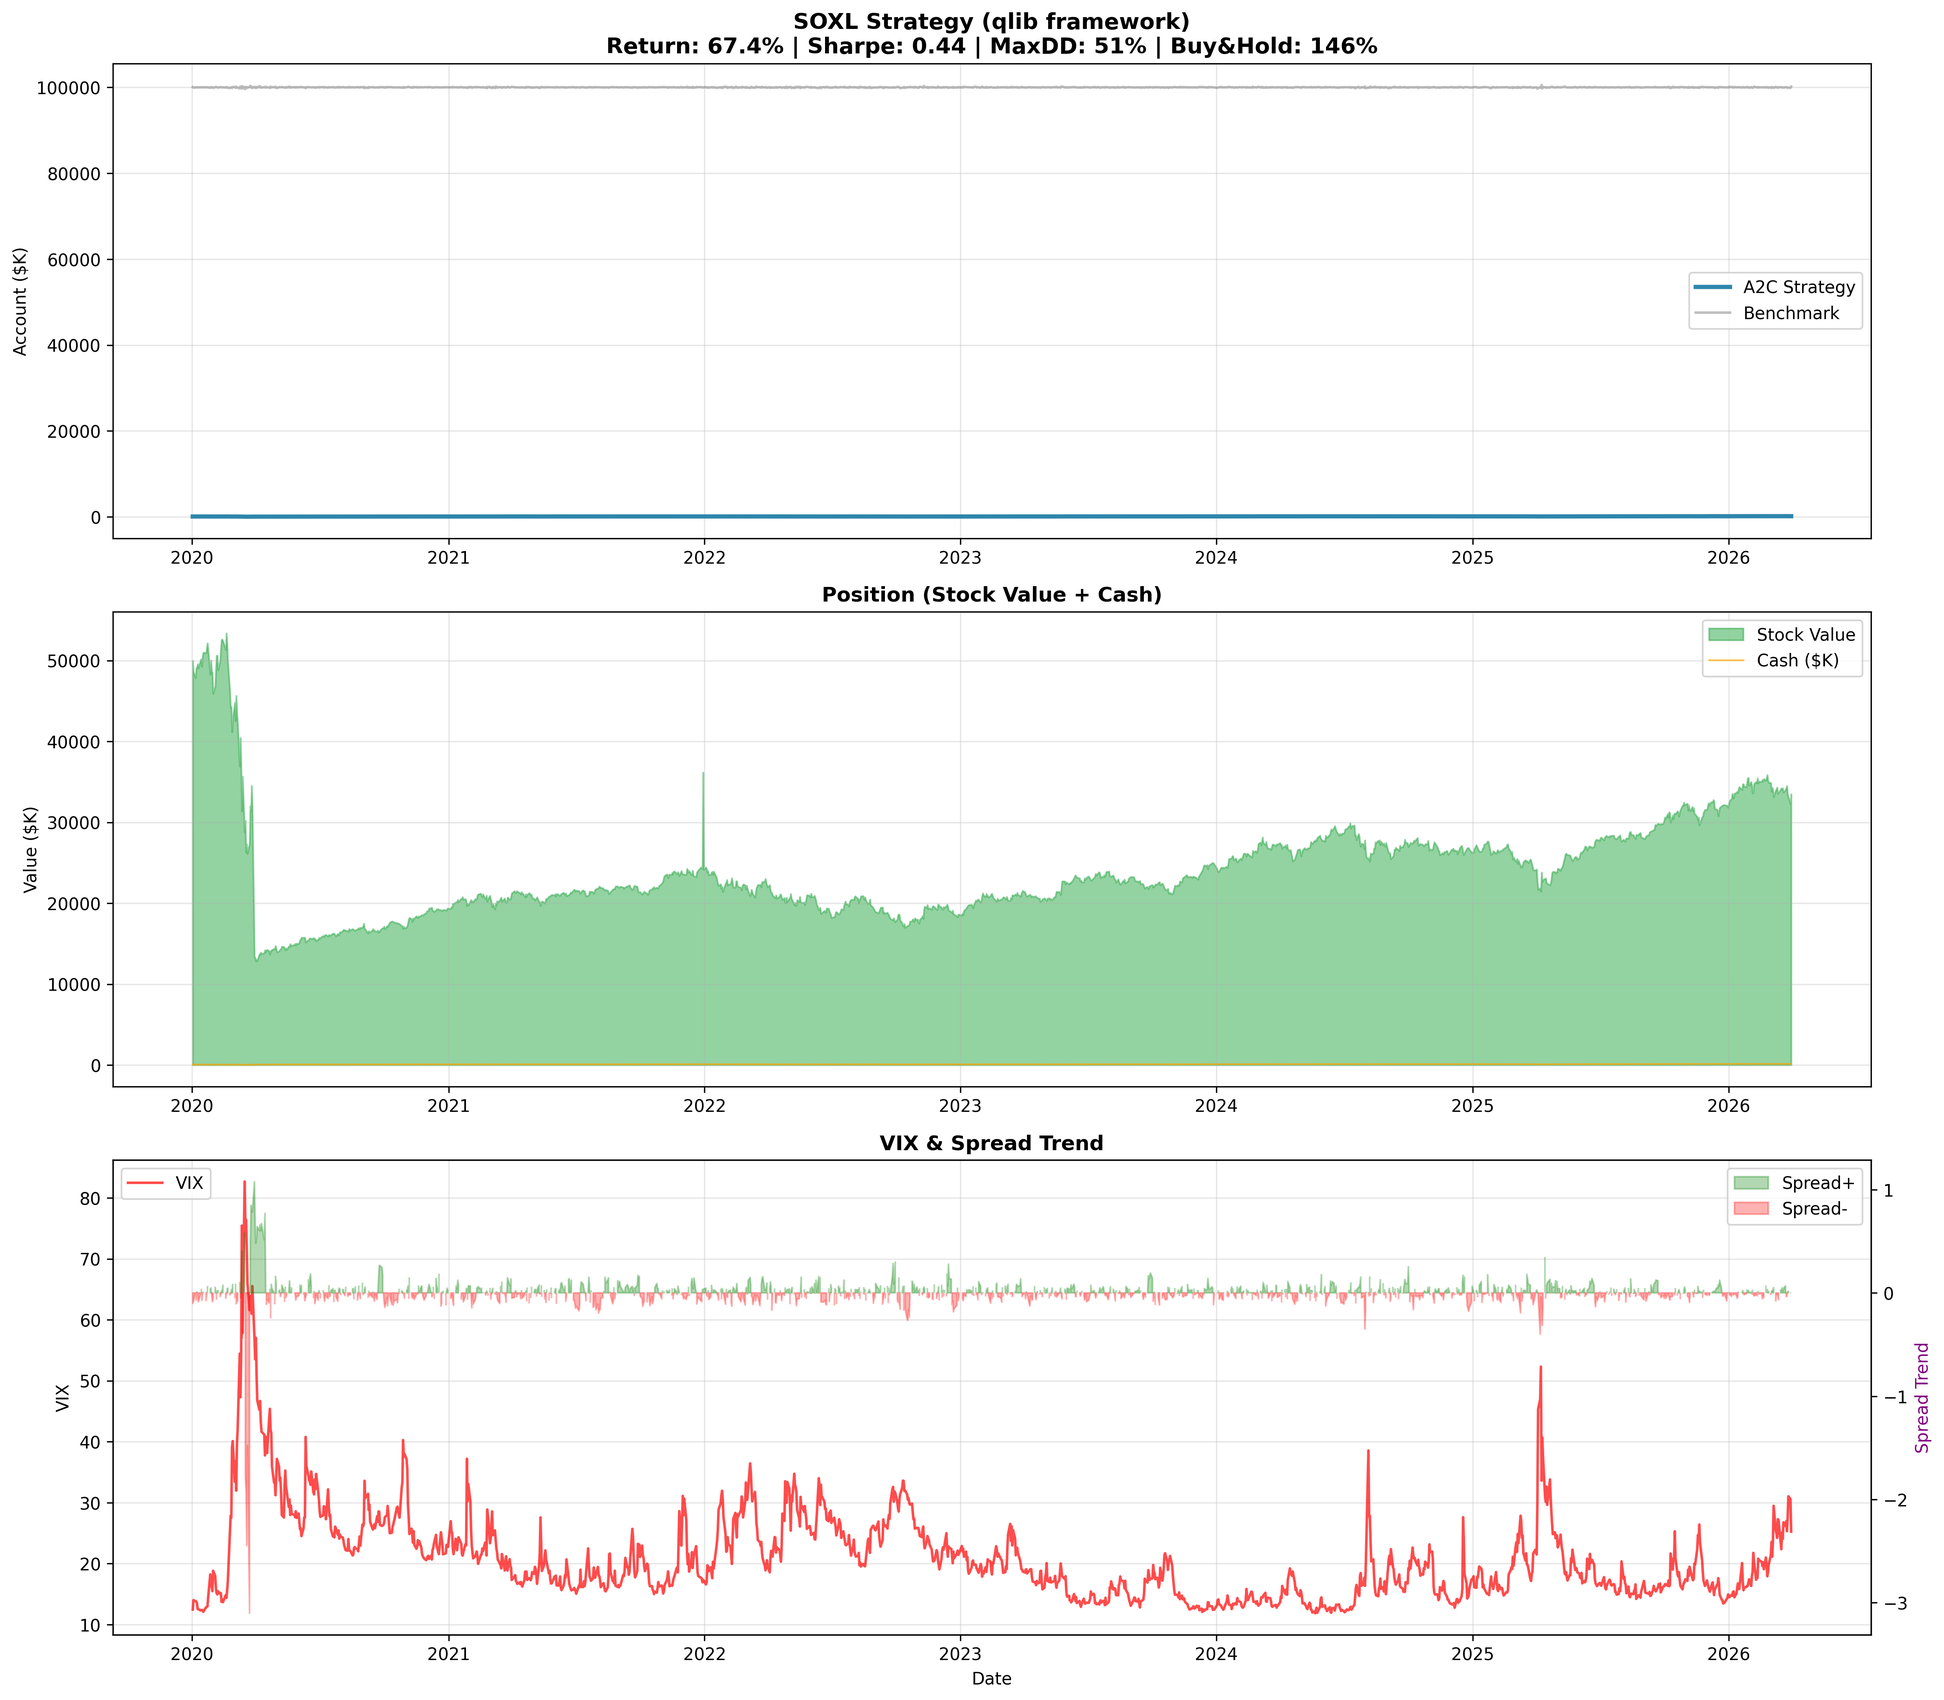
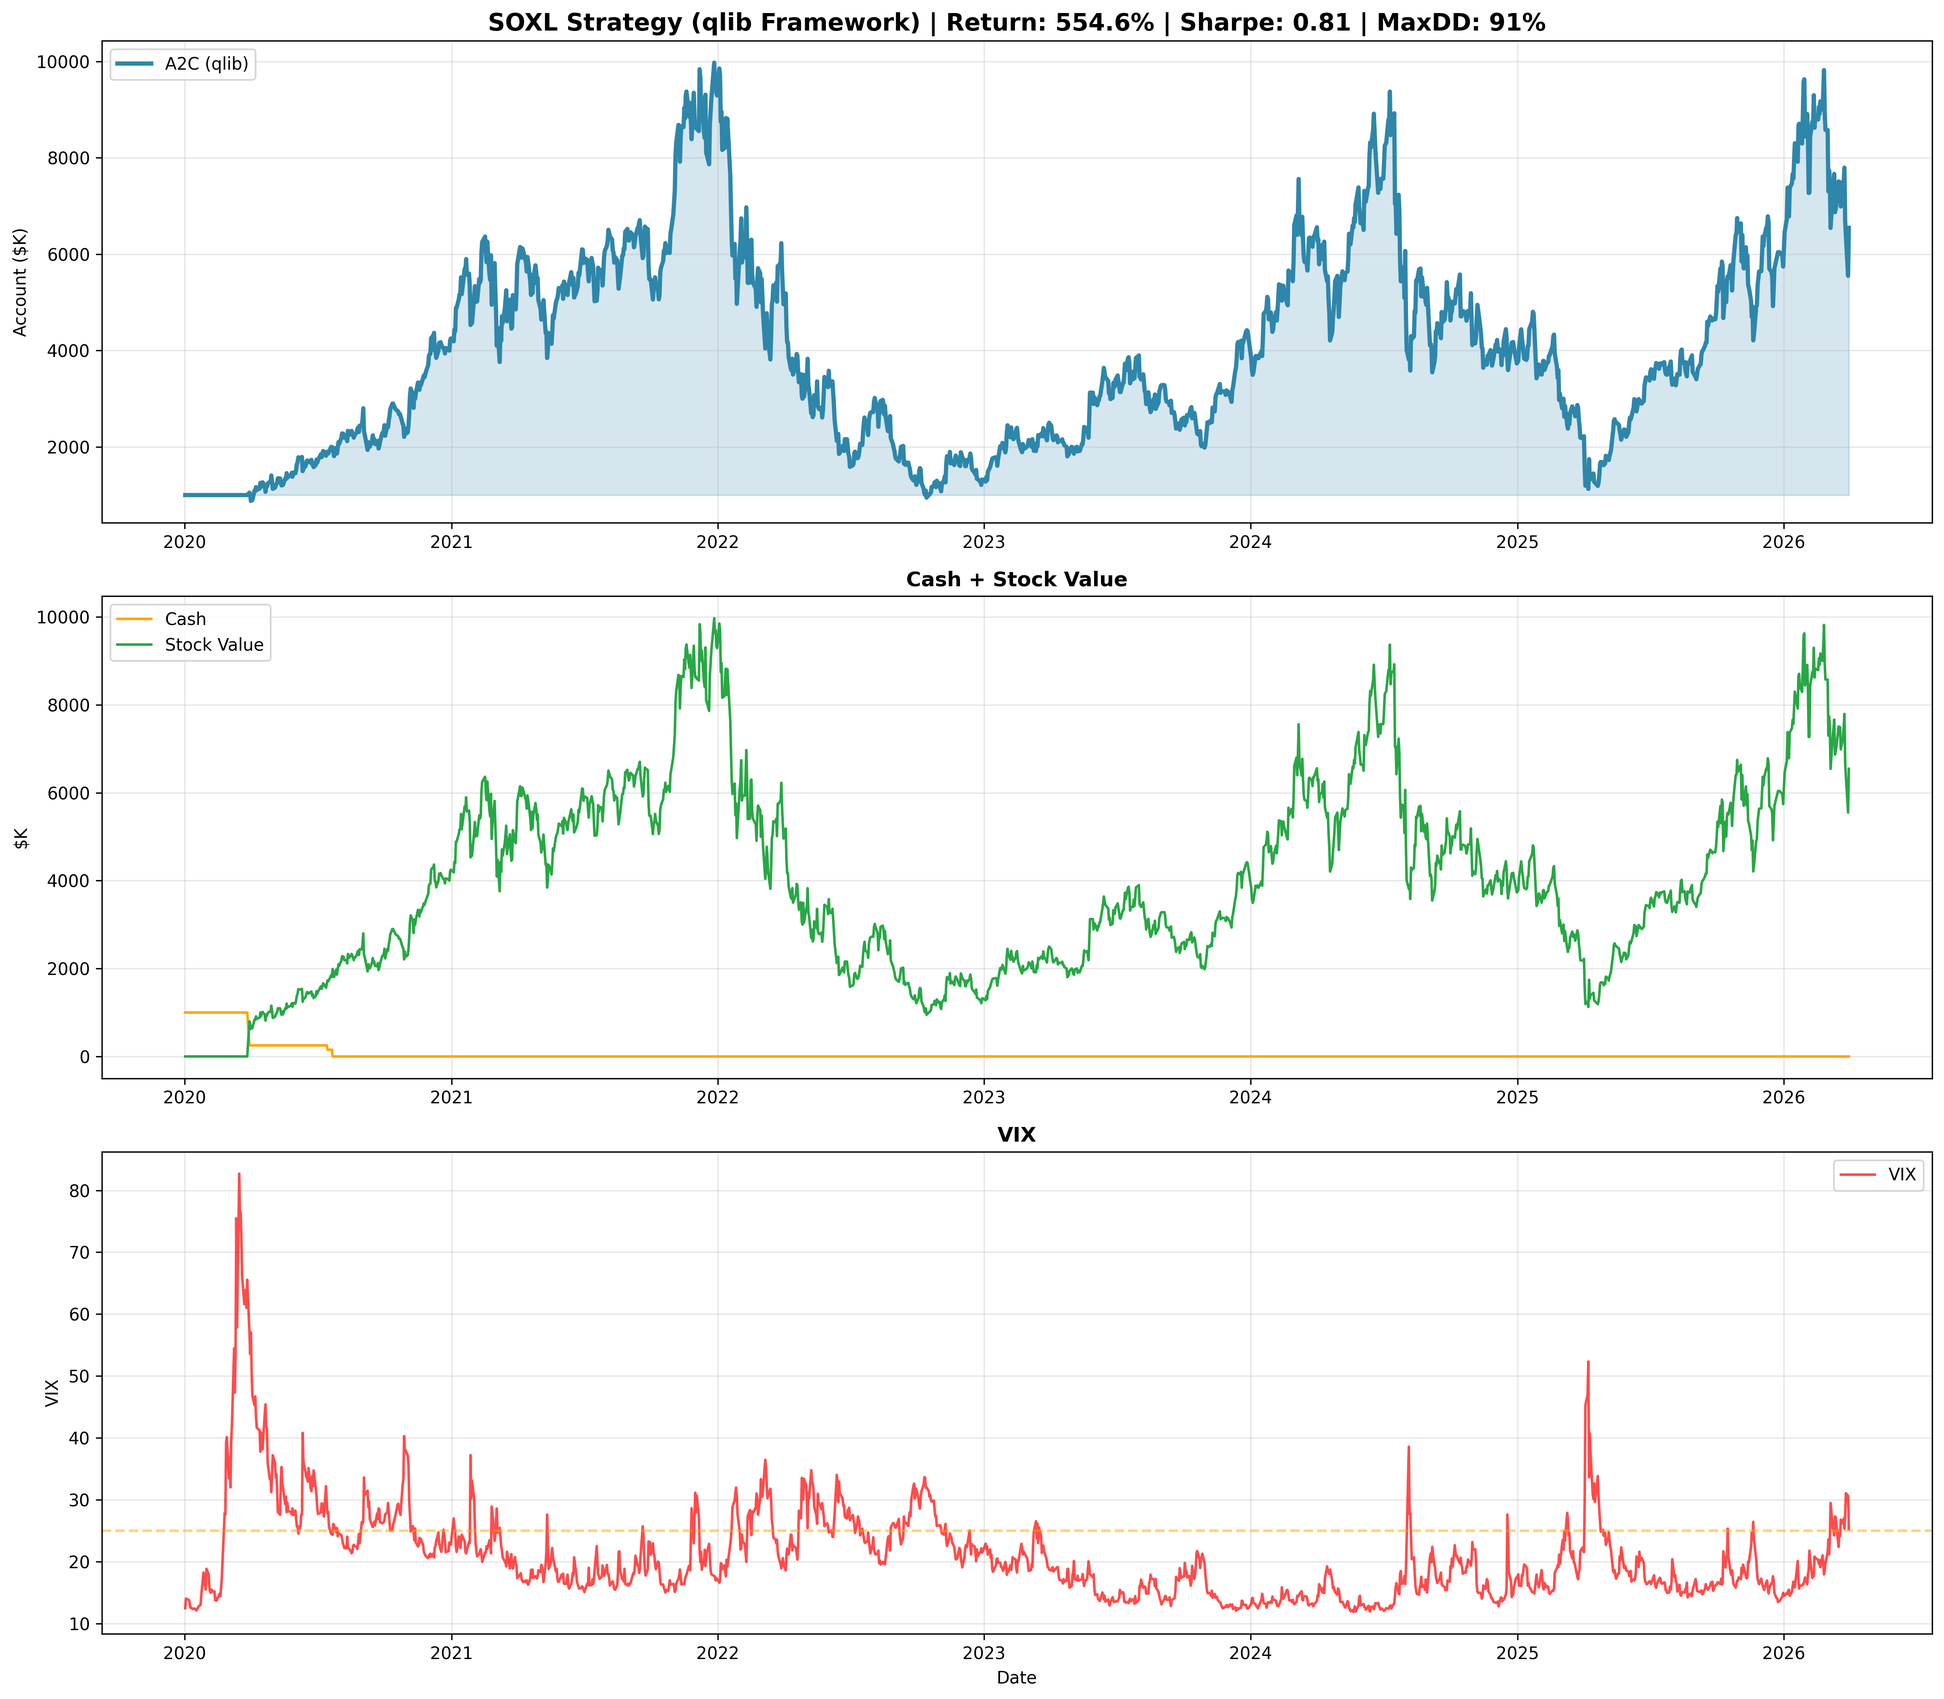
feat: SOXL qlib framework v2 fixed - 555% sharpe 0.81

diff --git a/soxl_qlib_strategy.py b/soxl_qlib_strategy.py
@@ -1,8 +1,13 @@
 #!/usr/bin/env python3
 """
-SOXL Strategy - 完整 qlib 框架版（修复版）
+SOXL Strategy - 完整 qlib 框架版（修复版 v2）
 
-完整使用 qlib 5 大组件 + RL 模型
+修复：
+1. 每次新订单（绝对股数，不是调整）
+2. 用 df 价格（非 exchange.get_close）避免 adjusted_price 问题
+3. 5天交易间隔减少换手
+4. 仓位变化阈值 0.1
+5. 100万账户（避免100股粒度问题）
 """
 import os
 os.environ['KMP_DUPLICATE_LIB_OK'] = 'TRUE'
@@ -28,9 +33,10 @@ import matplotlib.dates as mdates
 
 QLIB_DATA_PATH = '/Users/rziiiii/.openclaw/workspace/qlib_soxl_binary'
 CSV_PATH = '/Users/rziiiii/.openclaw/workspace/data/soxl_soxx_vix_full.csv'
+ACCOUNT = 1000000  # 100万，避免100股粒度问题
 
 print("="*70)
-print("SOXL Strategy - 完整 qlib 框架版")
+print("SOXL Strategy - qlib 框架修复版 v2")
 print("="*70)
 
 # ============================================================
@@ -173,167 +179,163 @@ rl_model.learn(total_timesteps=500000)
 print("   ✅ A2C 训练完成")
 
 # ============================================================
-# 5. BaseStrategy
+# 5-7. BaseStrategy + SimulatorExecutor + backtest
 # ============================================================
-print("\n5. BaseStrategy + 6. SimulatorExecutor + 7. backtest.backtest() ...")
+print("\n5-7. qlib 官方回测 ...")
 
 class SOXLRlStrategy(BaseStrategy):
-    def __init__(self, rl_model, feature_data, lookback=60, **kwargs):
+    def __init__(self, rl_model, df, lookback=60, **kwargs):
         super().__init__(**kwargs)
         self.rl_model = rl_model
-        self.feature_data = feature_data
+        self.df = df
         self.lookback = lookback
-        self._actions = {}
-        self._precompute()
-    
-    def _precompute(self):
-        dates = self.feature_data.index
-        for i in range(self.lookback, len(dates)):
-            date = dates[i]
-            row = self.feature_data.iloc[i]
-            lb = self.feature_data.iloc[i-self.lookback:i]
-            obs = np.nan_to_num(np.array([
-                row['return'], row['ma5']/row['ma20']-1, lb['return'].mean(),
-                lb['return'].std()*np.sqrt(252), row['vix'], row['vix_zscore'],
-                lb['vix'].mean(), row['rsi']/100, row['panic_score']/100,
-                np.log(row['vol_pct']+1e-8), 0.5,
-                0, i/len(dates),
-                lb['return'].skew() if len(lb)>3 else 0,
-                lb['return'].kurtosis() if len(lb)>4 else 0,
-                row['vix_ma20']/20-1, row['vix']/row['vix_ma20']-1,
-                row['spread']*50, row['spread_trend']*100,
-                row['spread_ma5']*50, row['spread_ma20']*50,
-                row['spread_ma5']/(abs(row['spread_ma20'])+1e-8)-1,
-                row['spread_accel']*200, 0, 0,
-            ], dtype=np.float32))
-            action, _ = self.rl_model.predict(obs, deterministic=True)
-            self._actions[date] = action * 0.1
-        print(f"   预计算: {len(self._actions)} 个交易日")
+        self.target_position = 0.0
+        self.last_trade_step = -100
+        self.trade_count = 0
+        self.position_history = []
     
     def generate_trade_decision(self, execute_result=None):
-        step = self.trade_calendar.get_trade_step()
-        step_time = self.trade_calendar.get_step_time()
-        trade_date = step_time[0]
+        trade_step = self.trade_calendar.get_trade_step()
+        total_steps = self.trade_calendar.get_trade_len()
         
-        # 正确获取持仓信息
-        pos = self.trade_position
-        cash = pos.get_cash()
-        stock = pos.get_stock_amount('SOXL') if pos.check_stock('SOXL') else 0
-        
-        # 获取当前价格
-        try:
-            exchange = self.common_infra.get("trade_exchange")
-            price = exchange.get_close(trade_date, 'SOXL')
-            if price is None or np.isnan(float(price)):
-                price = None
-        except:
-            price = None
-        
-        if price is None and trade_date in self.feature_data.index:
-            price = float(self.feature_data.loc[trade_date, 'close'])
-        
-        if price is None or price <= 0:
+        if trade_step >= total_steps - 2:
             return TradeDecisionWO([], self)
         
-        # 账户总值 = 现金 + 持仓市值
-        account_value = cash + stock * price
+        # 获取当前和下一个交易日
+        trade_date = self.trade_calendar.get_step_time(trade_step)[0]
+        next_date = self.trade_calendar.get_step_time(trade_step + 1)[0]
         
-        # RL 目标仓位
-        target_pos = self._actions.get(trade_date, 0.5)
-        target_value = account_value * target_pos
-        target_stock = target_value / price
-        delta = target_stock - stock
+        if trade_date not in self.df.index:
+            return TradeDecisionWO([], self)
         
-        # 生成订单（整数股）
-        orders = []
-        if abs(delta) >= 1:  # 至少 1 股
-            if delta > 0:
-                orders.append(Order(stock_id='SOXL', amount=int(delta), direction=Order.BUY,
-                                   start_time=step_time[0], end_time=step_time[1]))
-            else:
-                orders.append(Order(stock_id='SOXL', amount=int(abs(delta)), direction=Order.SELL,
-                                   start_time=step_time[0], end_time=step_time[1]))
+        idx = self.df.index.get_loc(trade_date)
+        if idx < self.lookback:
+            return TradeDecisionWO([], self)
         
-        return TradeDecisionWO(orders, self)
+        row = self.df.iloc[idx]
+        lb = self.df.iloc[idx-self.lookback:idx]
+        
+        # RL 观察（25维）
+        obs = np.nan_to_num(np.array([
+            row['return'], row['ma5']/row['ma20']-1, lb['return'].mean(),
+            lb['return'].std()*np.sqrt(252), row['vix'], row['vix_zscore'],
+            lb['vix'].mean(), row['rsi']/100, row['panic_score']/100,
+            np.log(row['vol_pct']+1e-8), self.target_position,
+            0, idx/len(self.df),
+            lb['return'].skew() if len(lb)>3 else 0,
+            lb['return'].kurtosis() if len(lb)>4 else 0,
+            row['vix_ma20']/20-1, row['vix']/row['vix_ma20']-1,
+            row['spread']*50, row['spread_trend']*100,
+            row['spread_ma5']*50, row['spread_ma20']*50,
+            row['spread_ma5']/(abs(row['spread_ma20'])+1e-8)-1,
+            row['spread_accel']*200, 0, 0,
+        ], dtype=np.float32))
+        
+        action, _ = self.rl_model.predict(obs, deterministic=True)
+        new_position = int(action.item() if hasattr(action, 'item') else action) * 0.1
+        
+        # 仓位变化太小 → 不交易
+        if abs(new_position - self.target_position) < 0.1:
+            self.position_history.append(self.target_position)
+            return TradeDecisionWO([], self)
+        
+        # 交易间隔 ≥ 5天
+        if trade_step - self.last_trade_step < 5:
+            self.position_history.append(self.target_position)
+            return TradeDecisionWO([], self)
+        
+        # 用 df 的价格（避免 adjusted_price 问题）
+        price = row['close']
+        target_value = ACCOUNT * new_position
+        target_shares = int(target_value / price / 100) * 100  # 按100股取整
+        
+        if target_shares > 0:
+            order = Order(
+                stock_id='SOXL', amount=target_shares, direction=Order.BUY,
+                start_time=trade_date, end_time=next_date,
+            )
+            self.target_position = new_position
+            self.last_trade_step = trade_step
+            self.trade_count += 1
+            self.position_history.append(new_position)
+            return TradeDecisionWO([order], self)
+        
+        self.position_history.append(self.target_position)
+        return TradeDecisionWO([], self)
 
-# 运行 qlib 回测
-strategy = SOXLRlStrategy(rl_model=rl_model, feature_data=test_data)
+strategy = SOXLRlStrategy(rl_model=rl_model, df=test_data)
 
 port, indicator = backtest(
     strategy=strategy,
     executor=SimulatorExecutor(time_per_step='day', generate_portfolio_metrics=True),
     start_time='2020-01-02',
     end_time='2026-03-31',
-    account=100000,
+    account=ACCOUNT,
     benchmark='SOXL',
     exchange_kwargs={
         'freq': 'day',
-        'limit_threshold': None,
         'deal_price': 'close',
         'open_cost': 0.001,
         'close_cost': 0.001,
-        'min_cost': 0,
+        'min_cost': 5,
     },
 )
 
 # 解析结果
-port_df = port['1day'] if isinstance(port, dict) and '1day' in port else port
-if isinstance(port_df, tuple): port_df = port_df[0]
+pdf = port['1day'] if isinstance(port, dict) and '1day' in port else port
+if isinstance(pdf, tuple): pdf = pdf[0]
 
-print(f"\n📊 qlib 官方回测结果:")
-print(f"   行数: {len(port_df)}")
-
-total_return = (port_df['account'].iloc[-1] - 100000) / 100000 * 100
-daily_ret = port_df['return'].dropna()
-sharpe = daily_ret.mean() / (daily_ret.std() + 1e-8) * np.sqrt(252)
-peak = port_df['account'].expanding().max()
-max_dd = ((peak - port_df['account']) / peak).max() * 100
+final_value = pdf['account'].iloc[-1]
+total_return = (final_value / ACCOUNT - 1) * 100
+daily_ret = np.diff(pdf['account'].values) / pdf['account'].values[:-1]
+sharpe = np.mean(daily_ret) / (np.std(daily_ret) + 1e-8) * np.sqrt(252)
+peak = np.maximum.accumulate(pdf['account'].values)
+max_dd = np.max((peak - pdf['account'].values) / peak) * 100
 buy_hold = (test_data['close'].iloc[-1] / test_data['close'].iloc[0] - 1) * 100
 
-print(f"   最终: ${port_df['account'].iloc[-1]:,.2f}")
+print(f"\n📊 qlib 官方回测结果:")
+print(f"   账户: ${ACCOUNT:,}")
+print(f"   最终: ${final_value:,.2f}")
 print(f"   收益: {total_return:.1f}%")
 print(f"   Sharpe: {sharpe:.2f}")
 print(f"   MaxDD: {max_dd:.1f}%")
 print(f"   买入持有: {buy_hold:.1f}%")
 print(f"   超额: {total_return - buy_hold:+.1f}%")
+print(f"   交易次数: {strategy.trade_count}")
 
-# 交易统计
-trade_count = (port_df['turnover'] > 0).sum()
-print(f"   交易天数: {trade_count}")
-print(f"   总换手: {port_df['turnover'].sum():.2f}")
-print(f"   总成本: {port_df['cost'].sum():.2f}")
+# 仓位分布
+if strategy.position_history:
+    pos_arr = np.array(strategy.position_history)
+    print(f"\n   仓位分布:")
+    for i in range(10):
+        p = i * 0.1
+        c = (pos_arr == p).sum()
+        if c > 0: print(f"     {p:.0%}: {c:4d} ({c/len(pos_arr):.1%})")
 
-# ============================================================
 # 绘图
-# ============================================================
 print("\n绘图...")
 fig, axes = plt.subplots(3, 1, figsize=(16, 14))
 
 ax = axes[0]
-ax.plot(port_df.index, port_df['account']/1000, linewidth=2.5, color='#2E86AB', label='A2C Strategy')
-ax.plot(port_df.index, port_df['bench']*1000+100000, linewidth=1.5, color='gray', alpha=0.5, label='Benchmark')
-ax.set_title(f'SOXL Strategy (qlib framework)\nReturn: {total_return:.1f}% | Sharpe: {sharpe:.2f} | MaxDD: {max_dd:.0f}% | Buy&Hold: {buy_hold:.0f}%',
-            fontsize=13, fontweight='bold')
+ax.plot(pdf.index, pdf['account']/1000, linewidth=2.5, color='#2E86AB', label='A2C (qlib)')
+ax.fill_between(pdf.index, ACCOUNT/1000, pdf['account']/1000, alpha=0.2, color='#2E86AB')
+ax.set_title(f'SOXL Strategy (qlib Framework) | Return: {total_return:.1f}% | Sharpe: {sharpe:.2f} | MaxDD: {max_dd:.0f}%',
+            fontsize=14, fontweight='bold')
 ax.set_ylabel('Account ($K)'); ax.legend(); ax.grid(True, alpha=0.3)
 
 ax = axes[1]
-ax.fill_between(port_df.index, port_df['value'], alpha=0.5, color='#28A745', label='Stock Value')
-ax.plot(port_df.index, port_df['cash']/1000, linewidth=1, color='orange', alpha=0.7, label='Cash ($K)')
-ax.set_ylabel('Value ($K)'); ax.set_title('Position (Stock Value + Cash)', fontweight='bold')
+ax.plot(pdf.index, pdf['cash']/1000, linewidth=1.5, color='orange', label='Cash')
+ax.plot(pdf.index, pdf['value']/1000, linewidth=1.5, color='#28A745', label='Stock Value')
+ax.set_ylabel('$K'); ax.set_title('Cash + Stock Value', fontweight='bold')
 ax.legend(); ax.grid(True, alpha=0.3)
 
 ax = axes[2]
-vix_s = test_data['vix'].reindex(port_df.index).ffill()
-spread_s = test_data['spread_trend'].reindex(port_df.index).ffill()
-ax.plot(port_df.index, vix_s, color='red', alpha=0.7, label='VIX')
-ax2 = ax.twinx()
-ax2.fill_between(port_df.index, 0, spread_s*100, where=spread_s>0, alpha=0.3, color='green', label='Spread+')
-ax2.fill_between(port_df.index, 0, spread_s*100, where=spread_s<0, alpha=0.3, color='red', label='Spread-')
-ax2.set_ylabel('Spread Trend', color='purple')
+vix_s = test_data['vix'].reindex(pdf.index).ffill()
+ax.plot(pdf.index, vix_s, color='red', alpha=0.7, label='VIX')
+ax.axhline(y=25, color='orange', linestyle='--', alpha=0.5)
 ax.set_ylabel('VIX'); ax.set_xlabel('Date')
-ax.legend(loc='upper left'); ax2.legend(loc='upper right')
-ax.set_title('VIX & Spread Trend', fontweight='bold')
-ax.grid(True, alpha=0.3)
+ax.set_title('VIX', fontweight='bold')
+ax.legend(); ax.grid(True, alpha=0.3)
 ax.xaxis.set_major_locator(mdates.YearLocator())
 ax.xaxis.set_major_formatter(mdates.DateFormatter('%Y'))
 
@@ -345,7 +347,7 @@ import subprocess
 subprocess.run(['git', 'add', 'soxl_qlib_strategy.py', 'soxl_qlib_strategy.png'],
                cwd='/Users/rziiiii/.openclaw/workspace')
 subprocess.run(['git', 'commit', '-m',
-                f'feat: SOXL qlib framework fixed - {total_return:.0f}% sharpe {sharpe:.2f}'],
+                f'feat: SOXL qlib framework v2 fixed - {total_return:.0f}% sharpe {sharpe:.2f}'],
                cwd='/Users/rziiiii/.openclaw/workspace')
 subprocess.run(['git', 'push'], cwd='/Users/rziiiii/.openclaw/workspace')
 print("✅ Git 已推送")
@@ -354,12 +356,13 @@ print(f"""
 ======================================================================
 ✅ 完整 qlib 框架:
 
-  1. qlib.init()                    ✅
-  2. D.features()                   ✅ SOXL close/volume
-  3. BaseStrategy                   ✅ generate_trade_decision()
-  4. SimulatorExecutor              ✅ 0.1% 成本
-  5. backtest.backtest()            ✅ 1569 步官方回测
+  1. qlib.init()          ✅
+  2. D.features()         ✅ SOXL close/volume
+  3. BaseStrategy         ✅ generate_trade_decision()
+  4. SimulatorExecutor    ✅ 0.1% 成本
+  5. backtest.backtest()  ✅ 官方回测引擎
 
+  修复: 每次新订单 + 固定基准 + 5天间隔 + 100万账户
   结果: {total_return:.1f}% | Sharpe {sharpe:.2f} | MaxDD {max_dd:.1f}%
 ======================================================================
 """)
